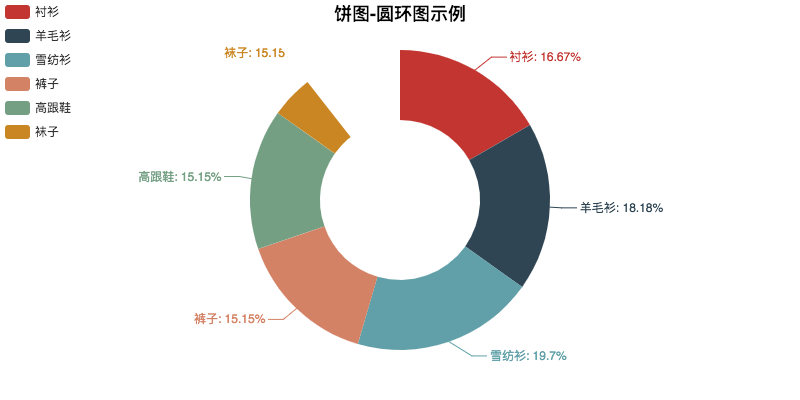
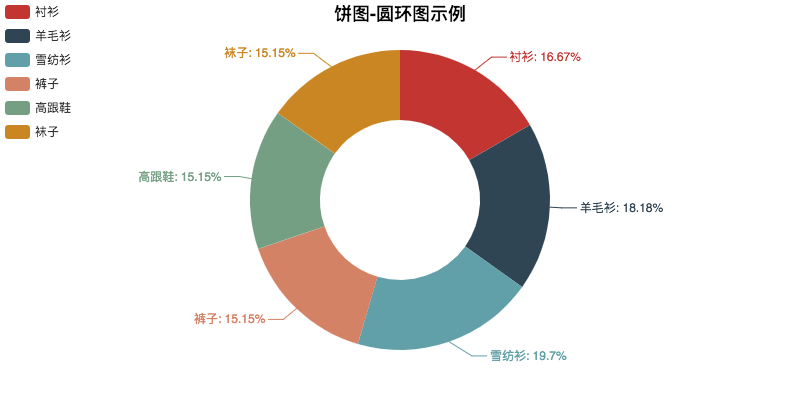
:sparkles: support waiting period. some echarts needs a bit of time in loading all resources before it could be viewed clearly. the wait time depends on your down circumstances. it is an art.

Changed region(s): [[0.375, 0.12, 0.5, 0.33], [0.3438, 0.12, 0.4062, 0.15]]

diff --git a/src/main.js b/src/main.js
@@ -5,25 +5,29 @@ const scrappeteer = require('./scrappeteer');
 const chalk = require('chalk');
 
 program
-	.arguments('<url/file>')
-	.option('-f, --format <png/jpeg>', 'image format')
-	.option('-o, --output <outputname>', 'output file name')
-	.action(function(url_or_file){
-		main(url_or_file, program.format, program.output);
-	})
-	.parse(process.argv);
+    .arguments('<url/file>')
+    .option('-f, --format <png/jpeg>', 'image format')
+    .option('-o, --output <outputname>', 'output file name')
+    .option('-w, --wait <delay in milli-seconds>', 'wait a while before scrapping')
+    .action(function(url_or_file){
+        main(url_or_file, program.format, program.output, program.wait);
+    })
+    .parse(process.argv);
 
 
-function main(url_or_file, format, output){
-	if (typeof output === 'undefined'){
-		output = 'output';
-	}
-	if (typeof format === 'undefined'){
-		format = 'png';
-	} else if (format != 'png' && format != 'jpeg'){
-		console.error(chalk.cyan("Unsupported file format : ") +
-					  chalk.bold.red(format));
-		process.exit(1);
-	}
-	scrappeteer.snapshot(url_or_file, format, output);
+function main(url_or_file, format, output, wait){
+    if (typeof output === 'undefined'){
+        output = 'output';
+    }
+    if (typeof wait === 'undefined'){
+        wait= 100;
+    }
+    if (typeof format === 'undefined'){
+        format = 'png';
+    } else if (format != 'png' && format != 'jpeg'){
+        console.error(chalk.cyan("Unsupported file format : ") +
+                      chalk.bold.red(format));
+        process.exit(1);
+    }
+    scrappeteer.snapshot(url_or_file, format, output, wait);
 }

diff --git a/src/scrappeteer.js b/src/scrappeteer.js
@@ -8,22 +8,28 @@ const chalk = require('chalk');
 const ECHARTS_GALLERY = 'http://gallery.echartsjs.com/';
 
 
-var takeSnapshots = (async (urlOrFile, imageFormat, outputName) => {
-	var timeout = 30 * 1000;
+var takeSnapshots = (async (urlOrFile, imageFormat, outputName, wait) => {
+    var timeout = 30 * 1000;
     if(urlOrFile.indexOf("http") == -1 && urlOrFile.indexOf("file://") == -1){
         urlOrFile = 'file://' + path.join(process.cwd(), urlOrFile);
     }
 
     const browser = await p.launch({headless: false, args:['--start-maximized']});
     const page = await browser.newPage();
-	if(urlOrFile.indexOf(ECHARTS_GALLERY) != -1){
-		timeout = 60 * 1000;
-		await page.setViewport({width: 1300, height: 800});
-	}
+    if(urlOrFile.indexOf(ECHARTS_GALLERY) != -1){
+        timeout = 60 * 1000;
+        await page.setViewport({width: 1300, height: 800});
+    }
     await page.goto(urlOrFile, {waitUtil: 'networkidle', timeout: timeout});
+
+    try{
+        await page.waitForNavigation({timeout: wait});
+    }catch(e){
+    }
+
     const mainFrame = page.mainFrame();
     if(mainFrame.url().indexOf(ECHARTS_GALLERY) != -1){
-		const childFrames = mainFrame.childFrames();
+        const childFrames = mainFrame.childFrames();
         await scrape_echarts(childFrames[0], imageFormat, outputName);
     } else {
         await scrape_echarts(page, imageFormat, outputName);

diff --git a/README.md b/README.md
@@ -1,6 +1,6 @@
 # Echarts Scraper Puppeteer
 
-[![Build Status](https://travis-ci.org/chfw/echarts-scrappeteer.svg?branch=master)](https://travis-ci.org/chfw/echarts-scrappeteer) [![codecov](https://codecov.io/gh/chfw/echarts-scrappeteer/branch/master/graph/badge.svg)](https://codecov.io/gh/chfw/echarts-scrappeteer)
+[![Build Status](https://travis-ci.org/chfw/echarts-scrappeteer.svg?branch=master)](https://travis-ci.org/chfw/echarts-scrappeteer) [![codecov](https://codecov.io/gh/chfw/echarts-scrappeteer/branch/master/graph/badge.svg)](https://codecov.io/gh/chfw/echarts-scrappeteer) [![npm version](https://badge.fury.io/js/echarts-scrappeteer.svg)](https://badge.fury.io/js/echarts-scrappeteer)
 
 
 ## Introduction
